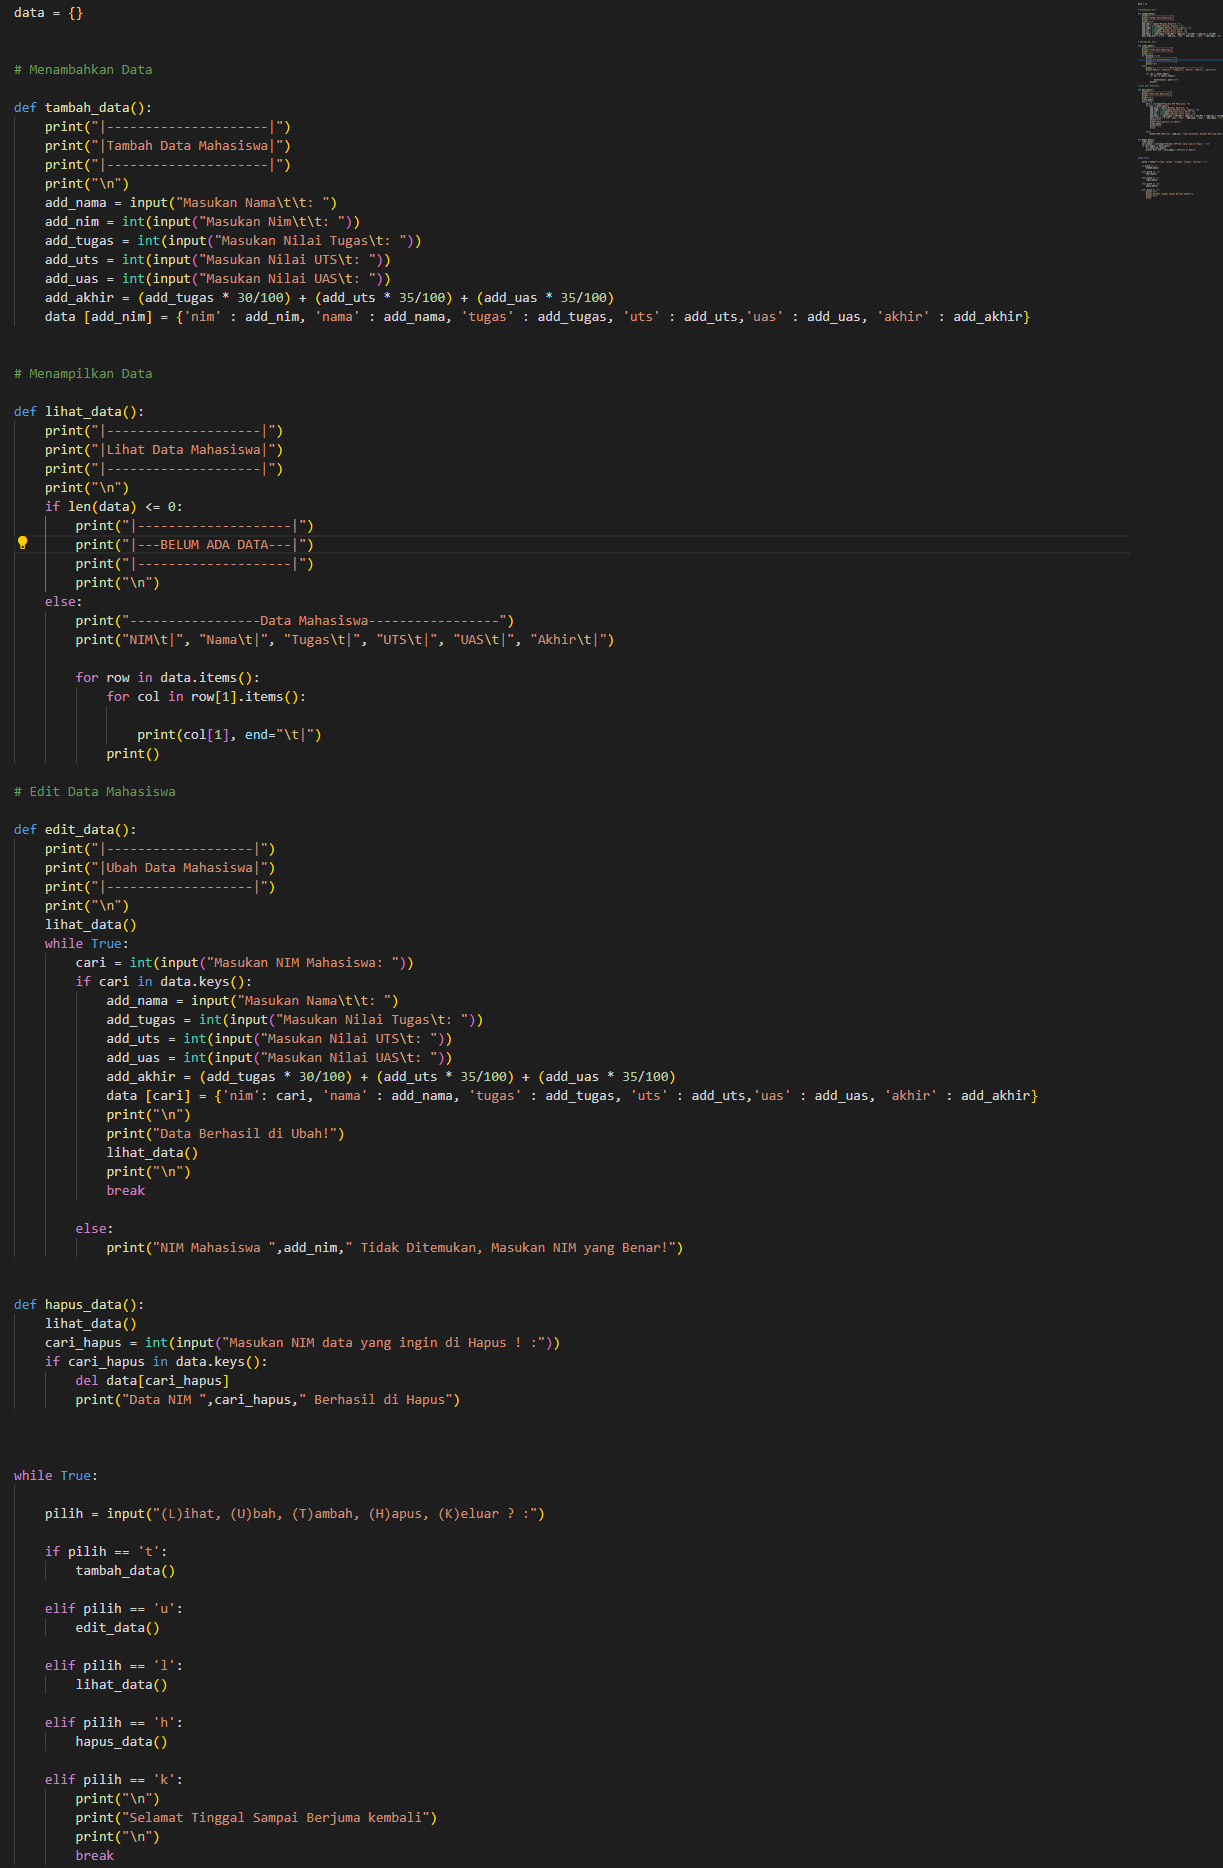
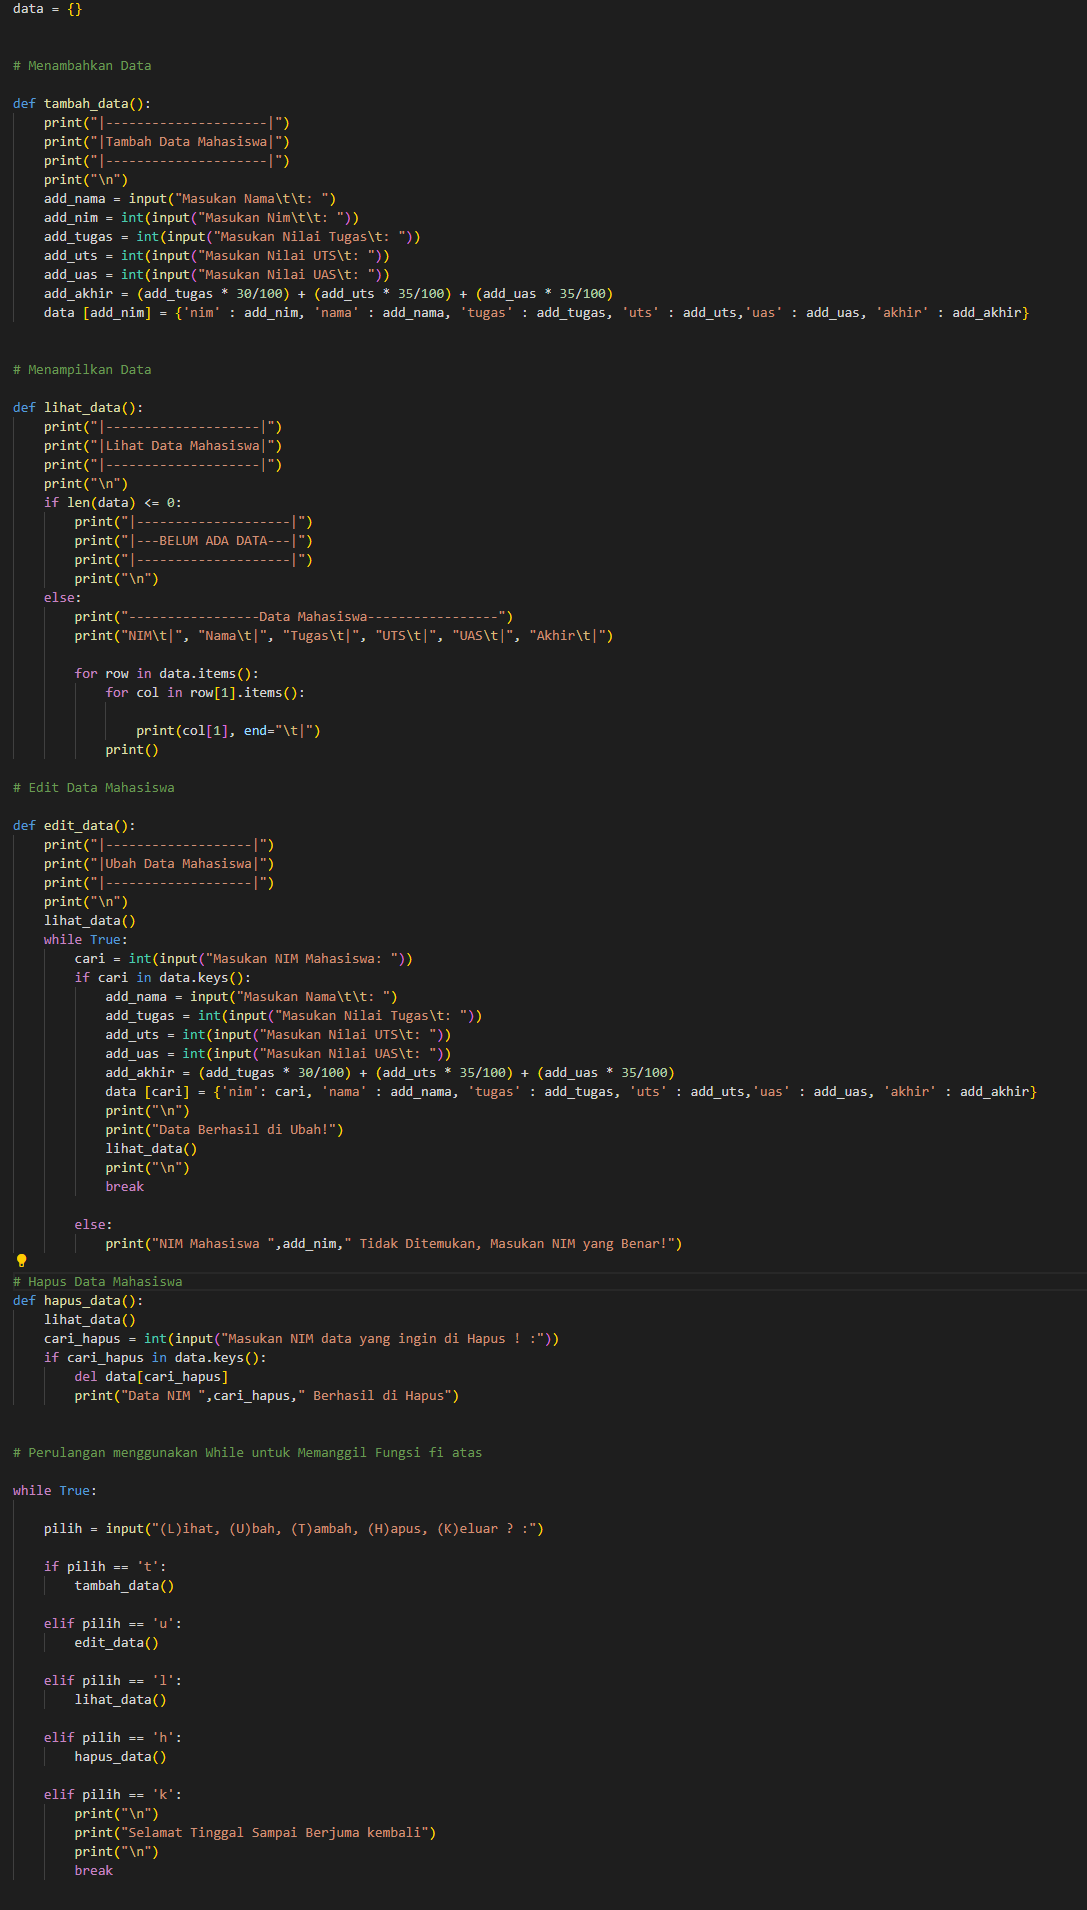
Def Fungsi

diff --git a/Praktikum6.py b/Praktikum6.py
@@ -65,7 +65,7 @@ def edit_data():
         else:
             print("NIM Mahasiswa ",add_nim," Tidak Ditemukan, Masukan NIM yang Benar!")
 
-
+# Hapus Data Mahasiswa
 def hapus_data():
     lihat_data()
     cari_hapus = int(input("Masukan NIM data yang ingin di Hapus ! :"))
@@ -74,6 +74,7 @@ def hapus_data():
         print("Data NIM ",cari_hapus," Berhasil di Hapus")
         
 
+# Perulangan menggunakan While untuk Memanggil Fungsi fi atas
 
 while True:
 
